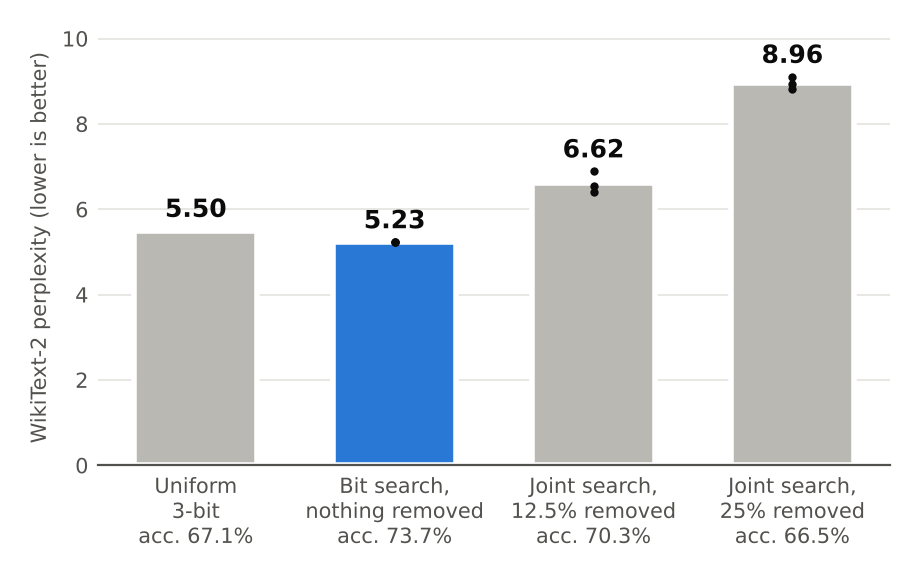
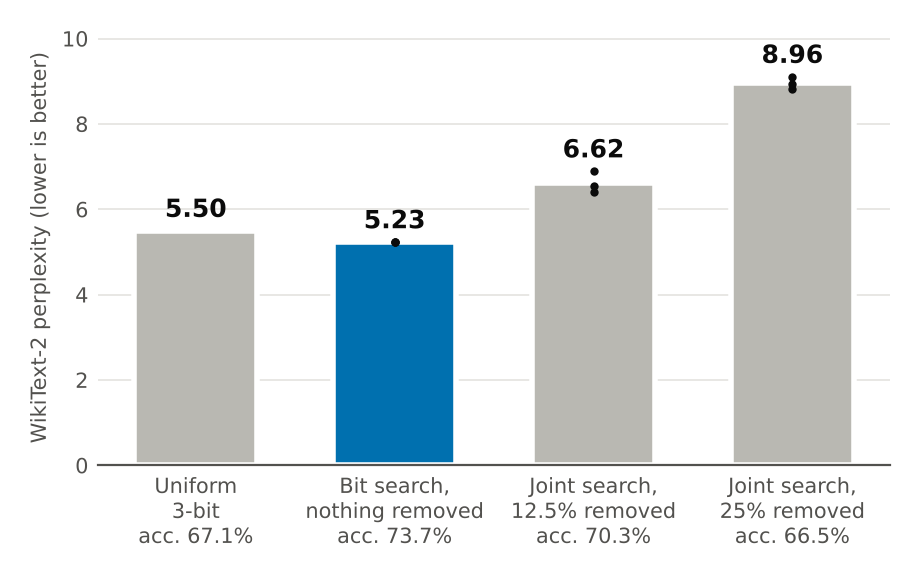
Presentation figures: TU Wien blue accent, convergence backup figure
The accent color now matches the TU Wien slide template. New backup figure:
WikiText-2 perplexity during the three standard joint searches with the
generation of the last accepted structural change (54, 60, 72).

Claude-Session: https://claude.ai/code/session_01QatW7xd6GXQ3p5RvrhoxV6

Changed region(s): [[0.3652, 0.4034, 0.5174, 0.8069]]

diff --git a/scripts/make_presentation_figures.py b/scripts/make_presentation_figures.py
@@ -14,7 +14,12 @@ Writes vector PDFs plus the CSV of plotted values to ``--output_dir``:
   for uniform 3-bit, quantization-only search and joint search at 12.5% and
   25% removal, with per-seed points and mean zero-shot accuracy;
 * ``rq2_search_variants.pdf``: final WikiText-2 perplexity per seed of the
-  standard joint search and the six search-design variants at 25% removal.
+  standard joint search and the six search-design variants at 25% removal;
+* ``backup_convergence.pdf``: WikiText-2 perplexity during the standard joint
+  search (E3, evaluated every 5 generations) with the generation of the last
+  accepted structural change per seed.
+
+Colors follow the TU Wien slide template (logo blue as the single accent).
 """
 
 from __future__ import annotations
@@ -55,8 +60,9 @@ RUNS = {
 LMEVAL_IDS = {"E1": ["own_uniform3"], "E2": [f"own_E2s{s}" for s in range(3)],
               "J12": [f"own_J12s{s}" for s in range(3)], "E3": [f"own_E3s{s}" for s in range(3)]}
 
-# Reference palette (dataviz skill): one accent hue, neutrals for everything else.
-BLUE = "#2a78d6"
+# One accent hue (TU Wien logo blue, as in the slide template), neutrals otherwise.
+BLUE = "#0070AF"
+BAND = "#d8e1f3"
 GRAY = "#b9b8b2"
 DARK_GRAY = "#52514e"
 INK = "#0b0b0b"
@@ -136,7 +142,7 @@ def rq2_figure(out: Path, table: list[dict]) -> None:
     ]
     ref = w2("E3")
     fig, ax = plt.subplots(figsize=(4.9, 2.7))
-    ax.axvspan(min(ref), max(ref), color="#eaf1fb", zorder=0, linewidth=0)
+    ax.axvspan(min(ref), max(ref), color=BAND, zorder=0, linewidth=0)
     for y, (lab, name) in enumerate(reversed(rows)):
         vals = w2(lab)
         mean = statistics.mean(vals)
@@ -166,6 +172,56 @@ def rq2_figure(out: Path, table: list[dict]) -> None:
     plt.close(fig)
 
 
+E3_LOGS = {
+    0: [f"{PM}/joint/joint_seed0_attempt1_20260831"],
+    1: [f"{PM}/joint/joint_seed1_attempt1_20260901", f"{PM}/joint/joint_seed1_attempt2_resume_20260901",
+        f"{PM}/joint/joint_seed1_attempt3_resume_20260902"],
+    2: [f"{PM}/joint/joint_seed2_attempt1_20260903"],
+}
+
+
+def convergence_figure(out: Path, table: list[dict]) -> None:
+    fig, ax = plt.subplots(figsize=(5.2, 2.6))
+    shades = {0: BLUE, 1: "#4f9ad0", 2: "#8bbbe0"}
+    labels: list[tuple[float, int]] = []
+    for seed, dirs in E3_LOGS.items():
+        rows = {}
+        for rel in dirs:
+            for row in csv.DictReader((REPO / rel / "generation_log.csv").open()):
+                rows[int(float(row["generation"]))] = row
+        points = [(g, float(r["wikitext2_ppl"])) for g, r in sorted(rows.items()) if r["wikitext2_ppl"]]
+        final = float(final_metrics(dirs[-1])["wikitext2_ppl"])
+        points.append((150, final))
+        depth = [g for g, r in sorted(rows.items()) if r["selected_parent_mutation_type"] == "depth"]
+        last_depth = max(depth)
+        xs, ys = zip(*points)
+        ax.plot(xs, ys, color=shades[seed], linewidth=1.6, zorder=3)
+        before = max((p for p in points if p[0] <= last_depth), key=lambda p: p[0])
+        after = min((p for p in points if p[0] >= last_depth), key=lambda p: p[0])
+        frac = 0.0 if after[0] == before[0] else (last_depth - before[0]) / (after[0] - before[0])
+        y_at = before[1] + frac * (after[1] - before[1])
+        ax.scatter([last_depth], [y_at], s=26, color=shades[seed], edgecolor="white", linewidth=1, zorder=4)
+        labels.append((final, seed))
+        table.append({"figure": "convergence", "label": f"E3s{seed}", "n_seeds": 1,
+                      "wikitext2_mean": f"{final:.3f}", "wikitext2_seeds": f"last structural change at generation {last_depth}"})
+    placed = -1.0
+    for final, seed in sorted(labels):
+        y = max(final, placed + 0.2)
+        ax.text(152, y, f"seed {seed}", va="center", fontsize=7, color=DARK_GRAY)
+        placed = y
+    ax.set_ylim(8.4, 12.5)
+    ax.set_xlim(0, 165)
+    ax.set_xlabel("Generation", fontsize=7.5, color=DARK_GRAY)
+    ax.set_ylabel("WikiText-2 perplexity", fontsize=7.5, color=DARK_GRAY)
+    ax.tick_params(labelsize=7.5)
+    style_axes(ax)
+    ax.text(70, 12.2, "dot = last accepted change of the mask", fontsize=7, color=DARK_GRAY, va="top")
+    fig.tight_layout()
+    fig.savefig(out / "backup_convergence.pdf")
+    fig.savefig(out / "backup_convergence.png", dpi=200)
+    plt.close(fig)
+
+
 def main() -> None:
     parser = argparse.ArgumentParser(description=__doc__.splitlines()[0])
     parser.add_argument("--output_dir", default=str(REPO / "thesis_results/presentation_figures"))
@@ -176,6 +232,7 @@ def main() -> None:
     table: list[dict] = []
     rq1_figure(out, table)
     rq2_figure(out, table)
+    convergence_figure(out, table)
     fields = ["figure", "label", "n_seeds", "wikitext2_mean", "wikitext2_seeds", "zero_shot_mean_pct"]
     with (out / "plotted_values.csv").open("w", newline="", encoding="utf-8") as fh:
         writer = csv.DictWriter(fh, fieldnames=fields)
